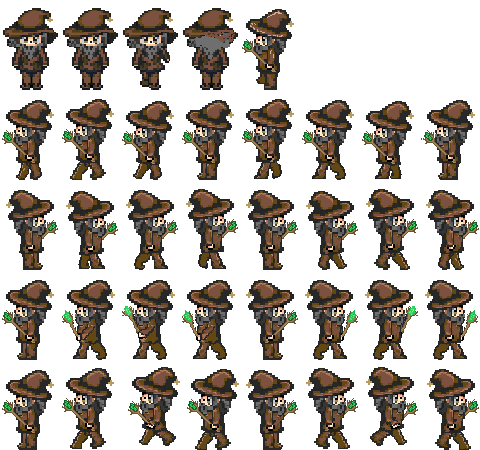
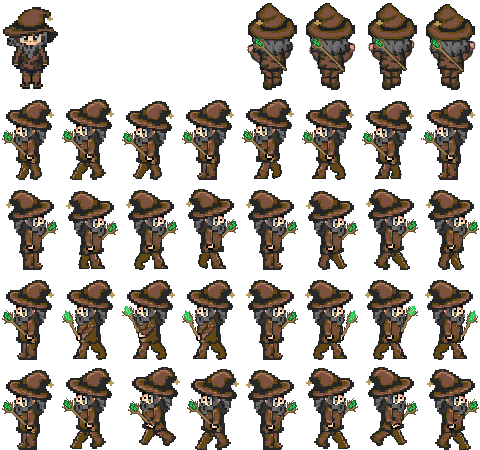
Alpha Release!

Changed region(s): [[0.0, 0.0, 1.0, 0.2178], [0.5625, 0.7156, 0.5938, 0.7467]]

diff --git a/trunk/GameMaker/src/edu/elon/honors/price/maker/DatabaseEditUI.java b/trunk/GameMaker/src/edu/elon/honors/price/maker/DatabaseEditUI.java
@@ -1,5 +1,7 @@
 package edu.elon.honors.price.maker;
 
+import yuku.ambilwarna.AmbilWarnaDialog;
+import yuku.ambilwarna.AmbilWarnaDialog.OnAmbilWarnaListener;
 import android.app.AlertDialog;
 import android.content.Context;
 import android.content.DialogInterface;
@@ -13,6 +15,7 @@ import android.view.LayoutInflater;
 import android.view.Menu;
 import android.view.MenuItem;
 import android.view.View;
+import android.widget.Button;
 import android.widget.CheckBox;
 import android.widget.EditText;
 import edu.elon.honors.price.data.UILayout;
@@ -86,20 +89,20 @@ public class DatabaseEditUI extends DatabaseActivity {
 
 		public void addButton() {
 			game.uiLayout.buttons.add(
-					new UILayout.Button(width / 2, height / 2, 50, 
+					new UILayout.Button(width / 2, height / 2, UILayout.DEFAULT_RAD, 
 							getRandomColor(), false)
 			);
 		}
 
 		public void addJoystick() {
 			game.uiLayout.joysticks.add(
-					new UILayout.JoyStick(width / 2, height / 2, 50, 
+					new UILayout.JoyStick(width / 2, height / 2, UILayout.DEFAULT_RAD, 
 							getRandomColor(), false)
 			);
 		}
 
 		private int getRandomColor() {
-			return Color.argb(150, (int)(255 * Math.random()), 
+			return Color.argb(UILayout.DEFAULT_ALPHA, (int)(255 * Math.random()), 
 					(int)(255 * Math.random()), (int)(255 * Math.random()));
 		}
 
@@ -196,12 +199,27 @@ public class DatabaseEditUI extends DatabaseActivity {
 					}
 				})
 				.create();
-				
 
 				contextDialog.show();
-				
+
+				Button buttonColor = (Button)contextDialog.findViewById(R.id.buttonColor);
 				EditText editText = (EditText)contextDialog.findViewById(R.id.editTextName);
 				CheckBox checkBox = (CheckBox)contextDialog.findViewById(R.id.checkBoxDefault);
+				buttonColor.setOnClickListener(new OnClickListener() {
+					@Override
+					public void onClick(View v) {
+						new AmbilWarnaDialog(getContext(), selectedControl.color, new OnAmbilWarnaListener() {
+							@Override
+							public void onOk(AmbilWarnaDialog dialog, int color) {
+								selectedControl.color = Color.argb(UILayout.DEFAULT_ALPHA, Color.red(color), 
+										Color.green(color), Color.blue(color));
+							}
+							
+							@Override
+							public void onCancel(AmbilWarnaDialog dialog) { }
+						}).show();
+					}
+				});
 				editText.setText(selectedControl.name == null ? "" : selectedControl.name);
 				checkBox.setChecked(selectedControl.defaultAction);
 				

diff --git a/trunk/GameData/src/edu/elon/honors/price/data/PlatformGame.java b/trunk/GameData/src/edu/elon/honors/price/data/PlatformGame.java
@@ -113,7 +113,7 @@ public class PlatformGame extends GameData {
 		actors = new ActorClass[3];
 		actors[1] = new ActorClass();
 		ActorClass ghost = actors[1];
-		ghost.imageName = "a7/ghost.png";
+		ghost.imageName = "a2/ghost.png";
 		ghost.speed = 1.5f;
 		ghost.jumpVelocity = 4f;
 		ghost.edgeBehavior = ActorClass.BEHAVIOR_TURN;
@@ -124,21 +124,21 @@ public class PlatformGame extends GameData {
 		ghost.name = "Ghost";
 
 		ActorClass vlad = new ActorClass();
-		vlad.imageName = "a5/StickMan.png";
+		vlad.imageName = "a2/skeleton.png";
 		vlad.speed = 1f;
 		vlad.edgeBehavior = ActorClass.BEHAVIOR_TURN;
 		vlad.wallBehavior = ActorClass.BEHAVIOR_TURN;
 		vlad.actorContactBehaviors = new int[] {ActorClass.BEHAVIOR_NONE, 
 				ActorClass.BEHAVIOR_NONE, ActorClass.BEHAVIOR_TURN, ActorClass.BEHAVIOR_TURN};
 		vlad.heroContactBehaviors[ActorClass.ABOVE] = ActorClass.BEHAVIOR_DIE;
-		vlad.name = "Stick Man";
+		vlad.name = "Skeleton";
 		actors[2] = vlad;
 
 		Hero hero = new Hero();
 		hero.speed = 3.5f;
 		hero.jumpVelocity = 6f;
 		hero.stunDuration = 600;
-		hero.imageName = "a5/hero.png";
+		hero.imageName = "a5/robot.png";
 		hero.name = "Hero";
 		hero.actorContactBehaviors[ActorClass.BELOW] = ActorClass.BEHAVIOR_JUMP;
 		hero.actorContactBehaviors[ActorClass.LEFT] = ActorClass.BEHAVIOR_STUN;

diff --git a/trunk/GameData/src/edu/elon/honors/price/data/Upgrader.java b/trunk/GameData/src/edu/elon/honors/price/data/Upgrader.java
@@ -16,7 +16,7 @@ import edu.elon.honors.price.physics.Vector;
 @SuppressWarnings("unused")
 public class Upgrader {
 
-	public final static int LATEST_VERSION = 14;
+	public final static int LATEST_VERSION = 15;
 
 	@SuppressWarnings("deprecation")
 	public static void upgrade(PlatformGame game) {
@@ -126,6 +126,24 @@ public class Upgrader {
 		if (version < 14) {
 			for (ObjectClass o : game.objects) {
 				o.friction = 1;
+			}
+			upgraded(game);
+		}
+		if (version < 15) {
+			for (ActorClass actor : game.actors) {
+				if (actor.imageName.contains("hero")) {
+					actor.imageName = "a5/ninja.png";
+				}
+				if (actor.imageName.contains("StickMan") ||
+						actor.imageName.contains("Skull")) {
+					actor.imageName = "a2/skeleton.png";
+				}
+				if (actor.imageName.contains("Gloop")) {
+					actor.imageName = "a2/gloop.png";
+				}
+				if (actor.imageName.contains("ghost")) {
+					actor.imageName = "a2/ghost.png";
+				}
 			}
 			upgraded(game);
 		}

diff --git a/trunk/GameData/src/edu/elon/honors/price/data/UILayout.java b/trunk/GameData/src/edu/elon/honors/price/data/UILayout.java
@@ -8,12 +8,15 @@ import android.graphics.Color;
 public class UILayout extends GameData {
 	private static final long serialVersionUID = 1L;
 	
+	public final static int DEFAULT_RAD = 65; 
+	public final static int DEFAULT_ALPHA = 150;
+	
 	public LinkedList<Button> buttons = new LinkedList<Button>();
 	public LinkedList<JoyStick> joysticks = new LinkedList<JoyStick>();
 	
 	public UILayout() {
-		buttons.add(new Button(-80, -80, 65, Color.argb(150, 255, 0, 0), true));
-		joysticks.add(new JoyStick(80, -80, 65, Color.argb(150, 0, 0, 255), true));
+		buttons.add(new Button(-80, -80, DEFAULT_RAD, Color.argb(DEFAULT_ALPHA, 255, 0, 0), true));
+		joysticks.add(new JoyStick(80, -80, DEFAULT_RAD, Color.argb(DEFAULT_ALPHA, 0, 0, 255), true));
 	}
 	
 	public static abstract class CircleControl implements Serializable {

diff --git a/trunk/GameData/src/edu/elon/honors/price/data/Data.java b/trunk/GameData/src/edu/elon/honors/price/data/Data.java
@@ -45,7 +45,8 @@ public final class Data {
 	public final static String ACTOR_7 = "a7/";
 	public final static String ACTOR_5 = "a5/";
 	public final static String ACTOR_2 = "a2/";
-	public final static String[] ACTOR_TYPES = new String[] {ACTOR_7, ACTOR_5, ACTOR_2};
+	//public final static String[] ACTOR_TYPES = new String[] {ACTOR_7, ACTOR_5, ACTOR_2};
+	public final static String[] ACTOR_TYPES = new String[] {ACTOR_5, ACTOR_2};
 	public final static String TILESETS_DIR = GRAPHICS + "/tilesets/";
 	public final static String OBJECTS_DIR = GRAPHICS + "/objects/";
 	public final static String BACKGROUNDS_DIR = GRAPHICS + "/backgrounds/";

diff --git a/trunk/GameMaker/src/edu/elon/honors/price/maker/PageBehaviors.java b/trunk/GameMaker/src/edu/elon/honors/price/maker/PageBehaviors.java
@@ -22,7 +22,8 @@ public class PageBehaviors extends PageList<Behavior> {
 	private Spinner spinnerType;
 	
 	private BehaviorType getBehaviorType() {
-		return BehaviorType.values()[spinnerType.getSelectedItemPosition()];
+		//No map behaviors for the moment (+1)
+		return BehaviorType.values()[spinnerType.getSelectedItemPosition()+1];
 	}
 	
 	private List<Behavior> getBehaviors() {
@@ -39,6 +40,8 @@ public class PageBehaviors extends PageList<Behavior> {
 		for (BehaviorType t : BehaviorType.values()) {
 			types.add(t.getName());
 		}
+		//No map behaviors for the moment
+		types.remove(0);
 		
 		spinnerType = new Spinner(parent);
 
